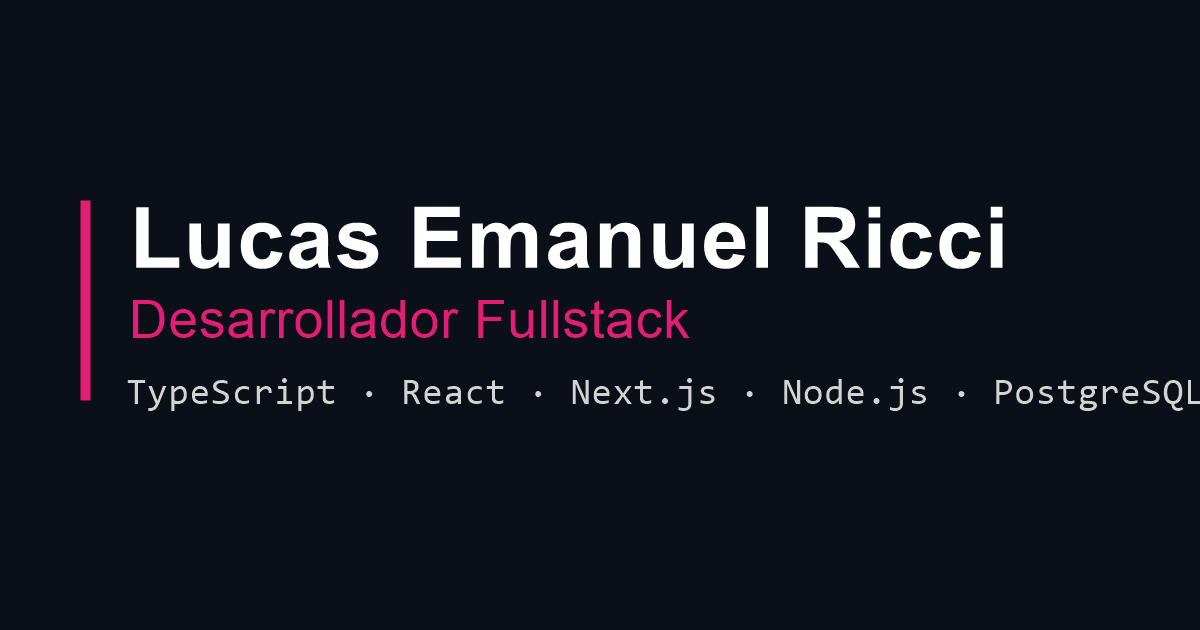
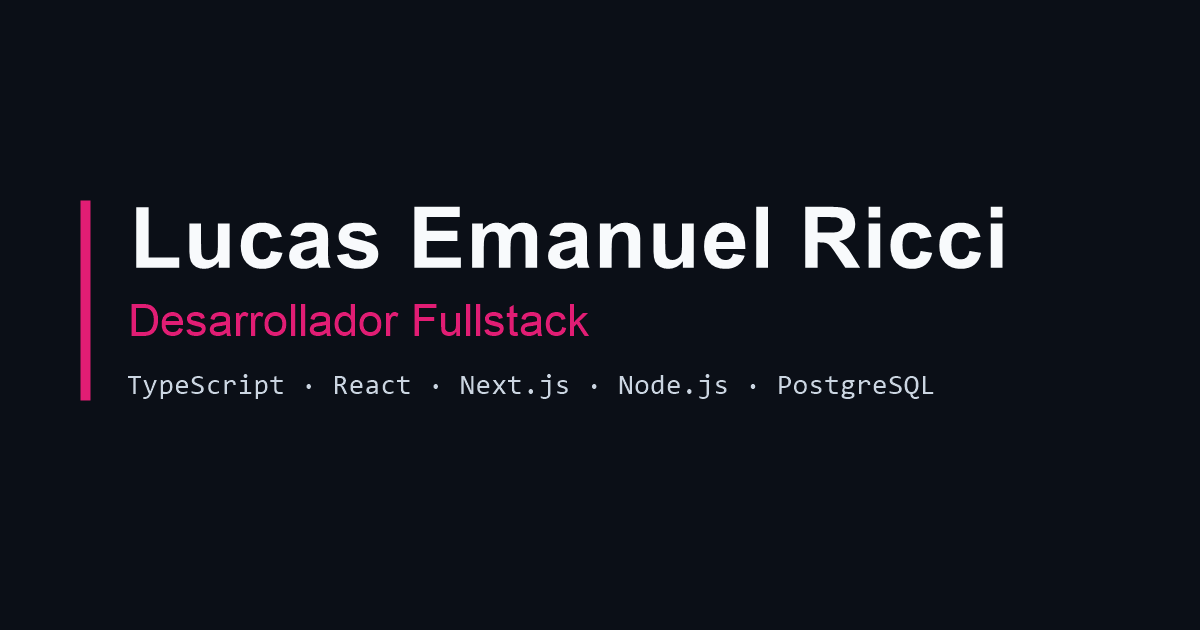
feat: add portfolio data and education page with certificate modal

diff --git a/src/data/portfolioData.ts b/src/data/portfolioData.ts
@@ -141,7 +141,7 @@ export const STUDIES: Study[] = [
   {
     title: "Software Developer (Nivel 0 y 1)",
     place: "APX",
-    date: "2025",
+    date: "2024",
     description:
       "Fundamentos de ingeniería de software, algoritmos, estructuras de datos, Git y programación con JavaScript y TypeScript.",
     img: "https://res.cloudinary.com/apx/image/upload/w_1200/co_white,g_south_east,l_text:Arial_18_bold:agosto%202025,x_411,y_150/co_white,g_north,l_text:Arial_60_bold:Lucas%20Emanuel%20Ricci,y_240/f_auto,q_auto/v1/apx2/certificates/dev-1_-_certificate_goaarb.png",

diff --git a/src/pages/Estudios.tsx b/src/pages/Estudios.tsx
@@ -43,7 +43,7 @@ export const Estudios = () => {
           >
             <span
               aria-hidden="true"
-              className="absolute -left-[7px] top-7 w-3.5 h-3.5 rounded-full bg-primary-pink border-4 border-background-primary ring-1 ring-primary-pink/50"
+              className="absolute -left-[7px] top-7 w-3.5 h-3.5 rounded-full bg-primary-pink border-4 border-background ring-1 ring-primary-pink/50"
             />
             <button
               type="button"
